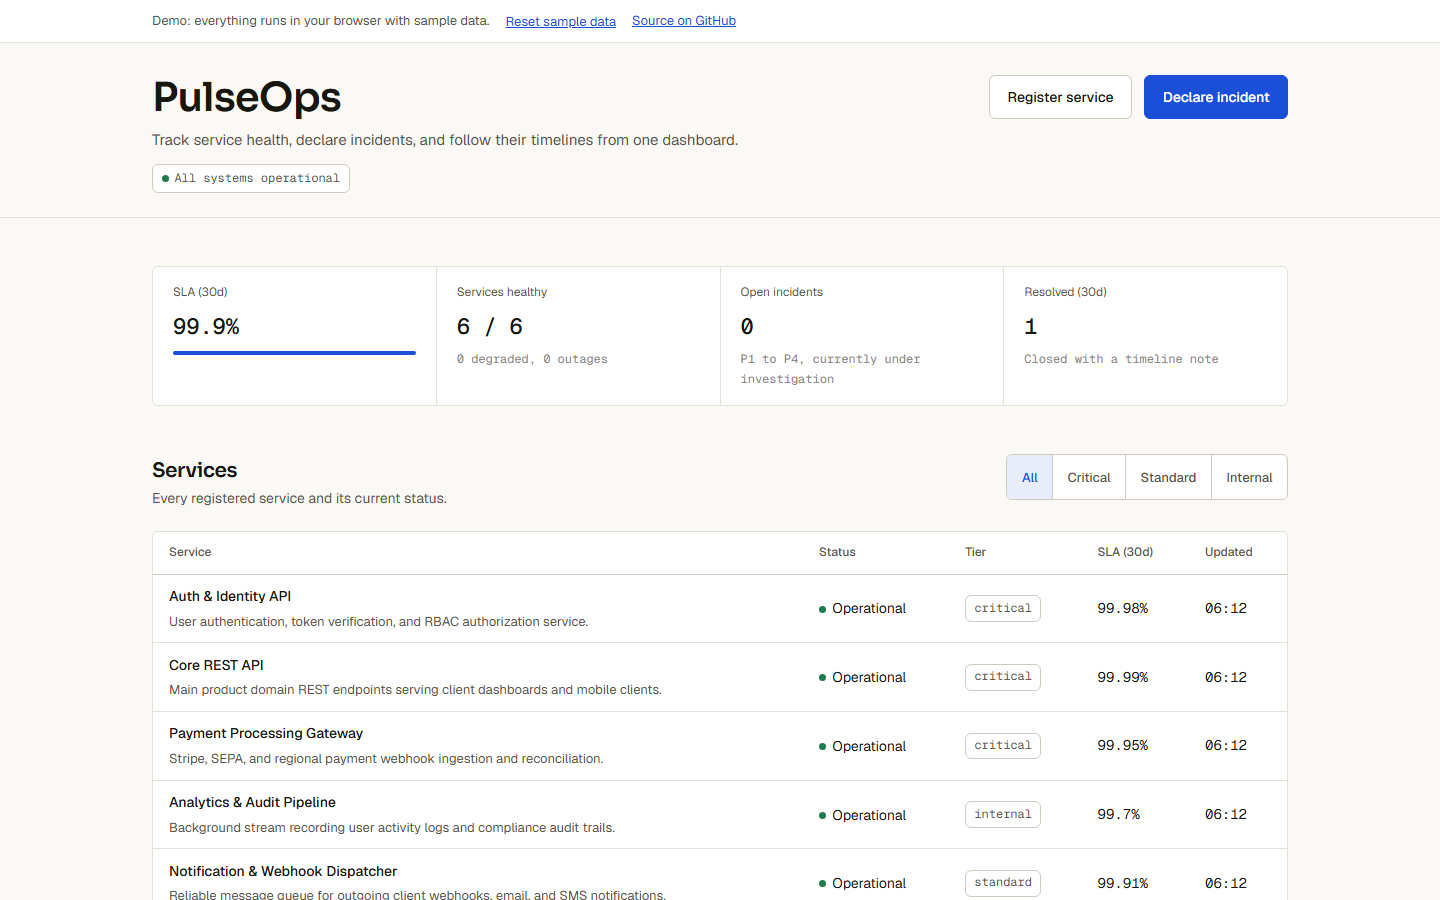
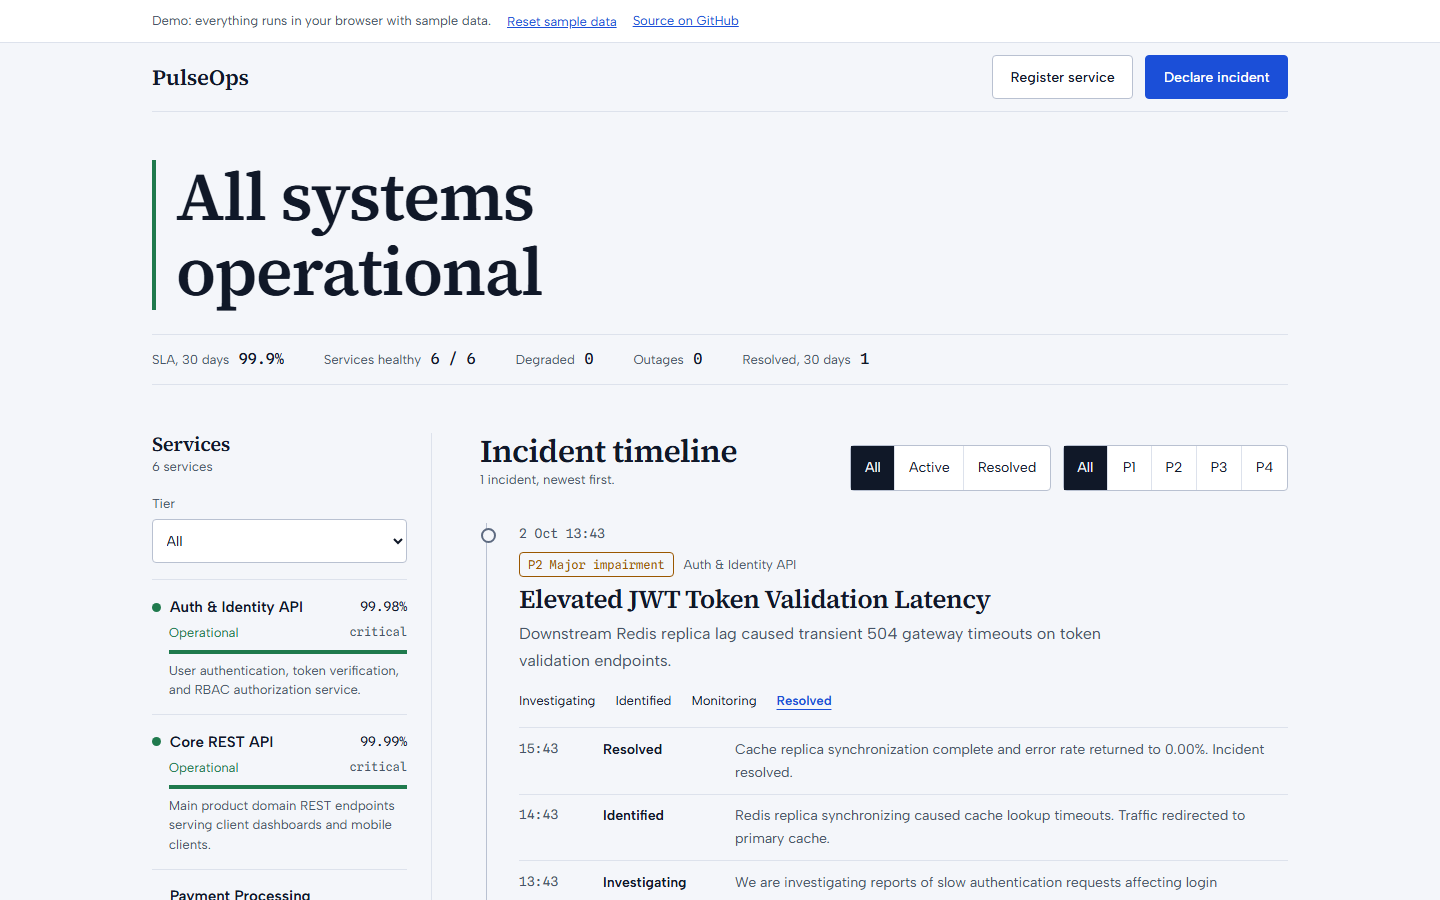
Update README screenshots and changelog for the newsroom layout

diff --git a/client/src/App.css b/client/src/App.css
@@ -777,6 +777,8 @@ textarea {
 
   .newsroom { grid-template-columns: minmax(0, 1fr); gap: 2.5rem; }
 
+  .timeline-region { order: -1; }
+
   .service-rail {
     padding-right: 0;
     border-right: none;

diff --git a/CHANGELOG.md b/CHANGELOG.md
@@ -8,6 +8,9 @@ The format is based on [Keep a Changelog](https://keepachangelog.com/en/1.1.0/).
 
 ### Changed
 
+- New visual identity modeled on a newsroom status page: one large serif sentence states the current health ("All systems operational" or the number of active incidents), with the 30-day figures on a single line below it.
+- The page now has two regions: a narrow service sidebar (status dot, name, uptime meter) on the left and the incident timeline as the main column on the right. On phones the timeline comes first.
+- Switched to Source Serif 4 for headings, Albert Sans for text and Spline Sans Mono for numbers and times, on a cool paper background with hairline rules and 4px corners.
 - Redesigned the dashboard: a light paper theme with one signal-blue accent color, replacing the dark navy header and its four saturated status-pill colors.
 - Self-hosted the Sora, Geist and Geist Mono fonts instead of the system font stack, with numbers, IDs and timestamps set in mono everywhere.
 - Removed all gradients and drop shadows from the header, stat cards, service cards and buttons; dialogs keep a shadow since they float above the page.

diff --git a/README.md b/README.md
@@ -12,9 +12,9 @@ The demo runs entirely in your browser: there is no backend behind it, and the d
 
 ## Screenshots
 
-![Dashboard with the stats strip, the services table, and the incident timeline](docs/screenshots/01-dashboard.png)
+![Status headline over a narrow service sidebar and the incident timeline](docs/screenshots/01-dashboard.png)
 
-More screenshots: [a P1 incident declared against a service, showing the outage status and timeline](docs/screenshots/02-incident-declared.png), [the dashboard at phone width](docs/screenshots/03-mobile.png).
+More screenshots: [a newly declared incident at the top of the timeline, with the service marked degraded in the sidebar](docs/screenshots/02-incident-declared.png), [the dashboard at phone width](docs/screenshots/03-mobile.png).
 
 ## Features
 
